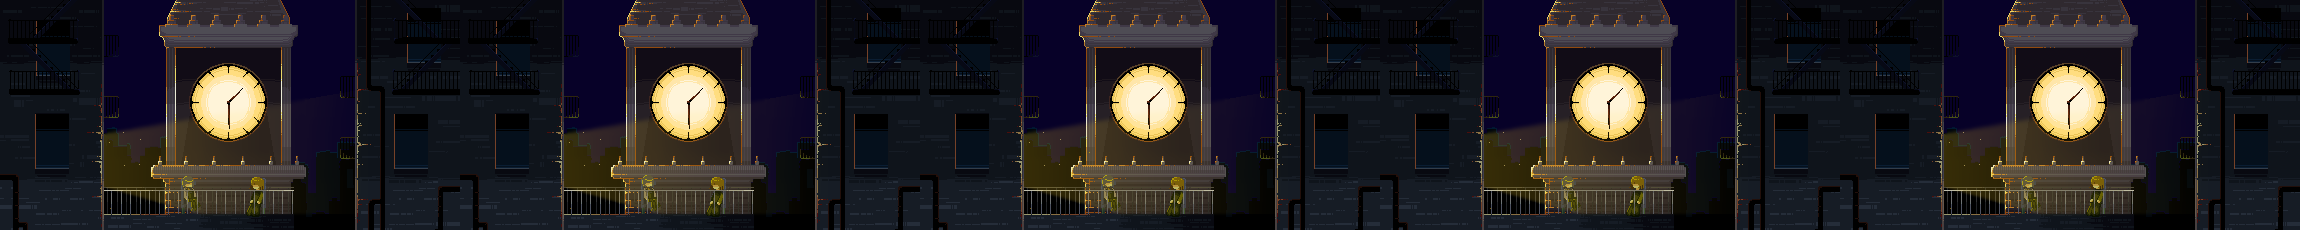
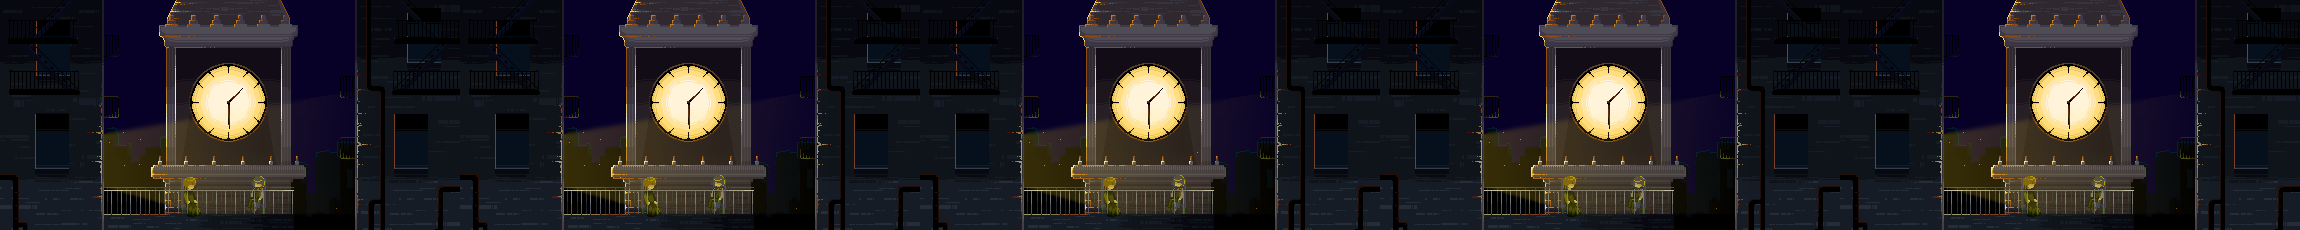
fix: 스테이지 2 배경 인물 좌우 반전 축 수정
스테이지 2(시계탑) 원본도 스테이지 1처럼 왼쪽 나츠·오른쪽 유키라 UI 초상화와 자리가
반대였다. 인물·의자 레이어를 뒤집을 때 캔버스 가운데가 아니라 의자 한 쌍이 겹치는 축
(AxisTimesTwo=447)을 기준으로 반전하도록 StageIdleImportTool을 고치고 시트를 재생성.

diff --git a/Assets/Scripts/Editor/StageIdleImportTool.cs b/Assets/Scripts/Editor/StageIdleImportTool.cs
@@ -31,11 +31,16 @@ namespace BlueComplex.EditorTools
         /// 스테이지별로 좌우를 뒤집어 합성할 레이어 이름. 캔버스 가운데(테이블·의자 대칭축)를 기준으로 뒤집으므로
         /// 인물 두 명의 자리가 서로 바뀌고 여전히 마주 본다. 스테이지 1 원본은 왼쪽 남자·오른쪽 여자인데,
         /// UI 초상화(왼쪽 유키·오른쪽 나츠)와 맞추려고 인물 레이어("Person")와 딸린 조각("Layer 1"/"Layer 2")을 맞바꾼다.
+        /// 스테이지 2(시계탑) 원본도 왼쪽 나츠·오른쪽 유키라, 두 사람과 의자를 의자 한 쌍의 가운데 축으로 뒤집는다.
+        /// AxisTimesTwo는 축 x좌표의 두 배(열 c → AxisTimesTwo - 1 - c) — 0이면 캔버스 가운데.
+        /// 스테이지 2: 왼쪽 의자 181~197열 ↔ 오른쪽 의자 249~265열이 정확히 겹치는 값 447.
         /// </summary>
-        private static readonly Dictionary<int, string[]> MirroredLayers = new Dictionary<int, string[]>
-        {
-            { 1, new[] { "Person", "Layer 1", "Layer 2" } },
-        };
+        private static readonly Dictionary<int, (string[] Layers, int AxisTimesTwo)> MirroredLayers =
+            new Dictionary<int, (string[] Layers, int AxisTimesTwo)>
+            {
+                { 1, (new[] { "Person", "Layer 1", "Layer 2" }, 0) },
+                { 2, (new[] { "People", "Chair", "Left People", "Left Chair" }, 447) },
+            };
 
         /// <summary>배치모드용 진입점 — 임포트 뒤 에디터를 종료한다.</summary>
         public static void RunAndExit()
@@ -54,7 +59,7 @@ namespace BlueComplex.EditorTools
             {
                 var ase = AsepriteFile.Read(source);
                 MirroredLayers.TryGetValue(stage, out var mirrored);
-                var frames = ase.ComposeFrames(mirrored);
+                var frames = ase.ComposeFrames(mirrored.Layers, mirrored.AxisTimesTwo);
 
                 var sheetPath = $"{OutputFolder}/{StageIdleBackground.SheetName(stage)}.png";
                 var jsonPath = $"{OutputFolder}/{StageIdleBackground.SheetName(stage)}.json";
@@ -283,7 +288,7 @@ namespace BlueComplex.EditorTools
             }
 
             /// <summary>프레임마다 보이는 이미지 레이어를 아래(인덱스 작은 쪽)부터 straight-alpha over로 합성한다. 행은 위→아래.</summary>
-            public List<Color32[]> ComposeFrames(string[] mirroredLayerNames = null)
+            public List<Color32[]> ComposeFrames(string[] mirroredLayerNames = null, int mirrorAxisTimesTwo = 0)
             {
                 var visible = new bool[_layers.Count];
                 for (var i = 0; i < visible.Length; i++) visible[i] = _layers[i].Type == 0 && IsVisible(i);
@@ -298,7 +303,7 @@ namespace BlueComplex.EditorTools
                         if (cel.Pixels == null || !visible[cel.LayerIndex]) continue;
                         var opacity = _layers[cel.LayerIndex].Opacity * cel.Opacity / (255f * 255f);
                         var toBlit = mirroredLayerNames != null && Array.IndexOf(mirroredLayerNames, _layers[cel.LayerIndex].Name) >= 0
-                            ? MirrorHorizontally(cel)
+                            ? MirrorHorizontally(cel, mirrorAxisTimesTwo > 0 ? mirrorAxisTimesTwo : Width)
                             : cel;
                         Blit(canvas, toBlit, opacity);
                     }
@@ -309,11 +314,11 @@ namespace BlueComplex.EditorTools
                 return result;
             }
 
-            /// <summary>셀을 캔버스 가운데 축 기준으로 좌우 반전한 사본(픽셀 열을 뒤집고 X를 거울 위치로).</summary>
-            private Cel MirrorHorizontally(Cel cel)
+            /// <summary>셀을 세로 축(x = axisTimesTwo / 2) 기준으로 좌우 반전한 사본(픽셀 열을 뒤집고 X를 거울 위치로).</summary>
+            private static Cel MirrorHorizontally(Cel cel, int axisTimesTwo)
             {
                 var mirrored = cel;
-                mirrored.X = Width - (cel.X + cel.Width);
+                mirrored.X = axisTimesTwo - (cel.X + cel.Width);
                 mirrored.Pixels = new Color32[cel.Pixels.Length];
                 for (var y = 0; y < cel.Height; y++)
                 for (var x = 0; x < cel.Width; x++)
